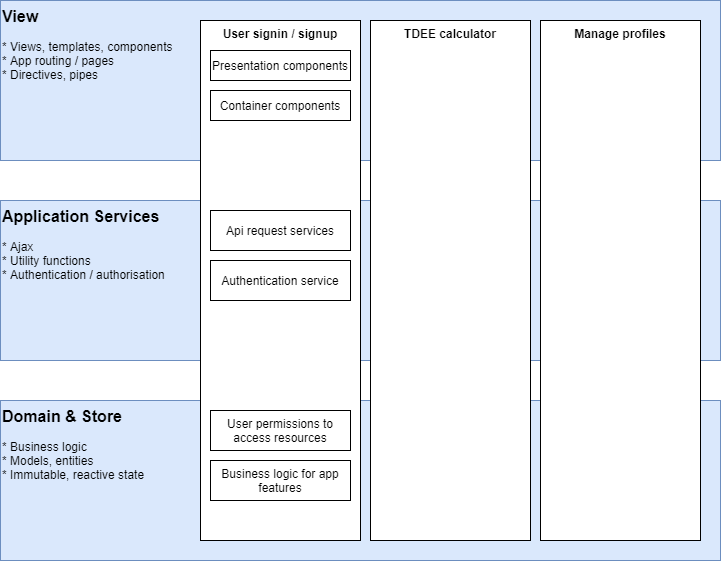
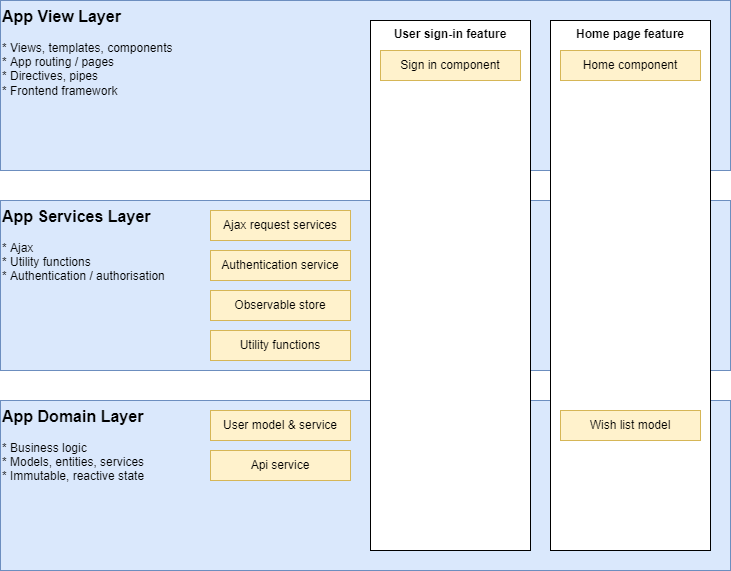
Work on docs

diff --git a/README.md b/README.md
@@ -11,8 +11,8 @@ This will be accomplished via the following necessities:
 * [Separation of concern](#separation-of-concern) via [horizontal](#horizontal-separation) and [vertical](#vertical-separation) separation,
 * Improved [store](#store) / [state](#state) management that is immutable, reactive and the flow of data is unidirectional,
 * Tested,
-* [Modular](#modular-/-module)
-* [Domain driven design](#domain-driven-design)
+* [Modular](#modular),
+* [Domain driven design](#domain-driven-design),
 * [Composition over Inheritance](#composition-over-inhertitance)
 
 ### Why?
@@ -27,15 +27,24 @@ This will be accomplished via the following necessities:
 ### Benefits
 
 * __Decoupling from the view framework__ - A lot of the code is written outside of the view framework / library (Angular, React, VueJs), making it easier to upgrade or switch to a different view framework. You can see in this example repo, we have three different views (view-angular, view-react, view-vuejs) that all use the same _domain_ and _app-services_ layers. As well, there are many more benefits to [Separation of concern](#separation-of-concern) as you will read below.
-* __Minimal dependencies used__ - We try to keep our dependencies to a minimal. We use [rxjs](https://rxjs.dev/guide/overview) to handle our ajax requests & reactive state management. We also use a frontend framework for our view, such as [Angular](https://angular.io/), [React](https://reactjs.org/) or [VueJs](https://vuejs.org/). These two dependencies give us a lot of functionality. Keeping dependencies low makes it easier to maintain and upgrade applications. Obviously, as your application grows, you will need to add more dependencies. We also used a component / styling framework ([UI5](https://sap.github.io/ui5-webcomponents/)) that is built with web components so that it can work with any frontend framewor.
+* __Consistent structure across apps & teams__ - A lot of the time, businesses will have multiple applications to maintain using multiple teams. Having a consistent architecture & structure that is used between applications comes with many advantages. Sometimes, the applications and dev teams are using different frontend frameworks, so having an architecture that looks and feels the same no matter what framework you are using is a massive advantage. 
 
-# Understanding this Repo & Architecture
+### A note about dependencies
 
-_Todo_
+You should be cautious about what dependencies you choose to use. If you use dependencies that are dependent on your frontend framework, it can be harder to upgrade or switch your frontend frameworks. 
+
+Example dependencies below:
+
+* __UI framework__ - For this example repo, we selected the [UI5](https://sap.github.io/ui5-webcomponents/) framework, which is built using web components. It's decoupled from any frontend framework, having this decoupling can make it easier to maintain, upgrade or even switch frameworks.
+* __Testing__ - It is highly recommended to choose a testing framework that is decoupled from your frontend framework. I recommend something like [Codecept](https://codecept.io/) for e2e testing. Unit tests should also be decoupled.
+* __State management__ - You should use a dependency that is framework independent, something like [rxjs](https://rxjs.dev/guide/overview) or [reduxjs](https://redux.js.org/)
+
+
+# How to use this repo
+
+__Important!__ The _view-vue_ example has not been completed.
 
 This repo has a very basic demo of how the 3 layered architecture is setup and used. 
-
-### How to use
 
 1. Clone the repo
 
@@ -102,7 +111,7 @@ Horizontal separation is achieved via layers. We will use 3 layers to separate o
 
 ## Vertical separation
 
-Vertical separation will organize the app into features. Below is an example of our application that we have created in this repo. The app simply allows users to signin to the app, use the TDEE calculator to detemine how many calories a day they should be eating. It also allows the user to save those calculations as profiles and manage these profiles. So in our example, we break our app into 3 features (vertical separation): User signin / signup, TDEE calculator & Manage profiles.
+Vertical separation will organize the app into features. Below is an example of our application that we have created in this repo. The app simply allows users to signin to the app, and then add items to their Christmas wish list. So in our example, we break our app into 2 features (vertical separation): User signin & Home page (wish list).
 
 _Example of our app with horizontal and vertical separation:_
 
@@ -152,14 +161,14 @@ Most of the time, you should aim to use composition because of the stronger bene
 
 _Below is a list of common features / functionality that most web apps have and what layer it will be located in._
 
-* Domain models, Domain services & business logic __(Domain)__
-* User permissions to access resources / features of the app __(Domain)__
-* User authentication / authorization __(Application services)__
-* Ajax requests __(Application services)__
-* Utility functions __(Application services)__
-* Routing __(App / View)__
-* Shared UI components (design system) __(App / View)__
-* Views, templates & components __(App / View)__
+* Domain models, Domain services & business logic __(App Domain Layer)__
+* User permissions to access resources / features of the app __(App Domain Layer)__
+* User authentication / authorization __(App Services Layer)__
+* Ajax requests __(App Services Layer)__
+* Utility functions __(App Services Layer)__
+* Routing __(App View Layer)__
+* Shared UI components (design system) __(App View Layer)__
+* Views, templates & components __(App View Layer)__
 
 # Frontend framework notes
 
@@ -206,7 +215,7 @@ _Below is a list of common features / functionality that most web apps have and 
 
 > Template of an entity. Methods that set / get data. Also includes business logic that relates to the object only. DDD refers to a model as a value object. _Some design patterns state that models should have no business logic, however, DDD (Domain Driven Design) finds this an anti-pattern, and states the model should have business logic if it relates to that object. [Anemic_domain_model](https://en.wikipedia.org/wiki/Anemic_domain_model)_
 
-#### Modular / Module
+#### Modular
 
 > A module is an independent unit used to construct a more complex structure. Modular design is an architecture that emplopys multiple modules to build a complex application
 
